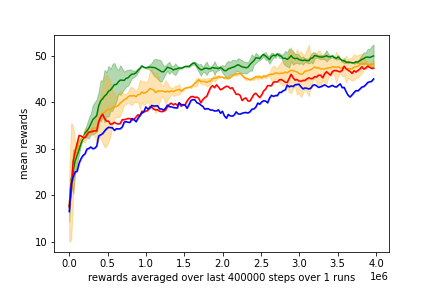
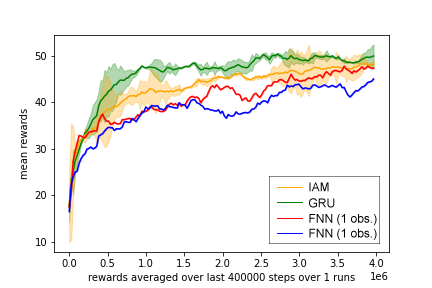
update blog and images

Changed region(s): [[0.6319, 0.5938, 0.8727, 0.875]]

diff --git a/index.md b/index.md
@@ -84,11 +84,16 @@ Two small adjustments have been made to get the environment working with the PPO
 - The observation space property with the correct output was added
 - Metadata property set to None
 
-
 ## IAM model
 As described in the paper the basic IAM model for the Warehouse environment uses an FNN and GRU in parallel. 
 The paper didn't explain how the IAM model was used in the PPO algorithm. This is an important detail since the algorithm uses an actor and critic model, and these can be used in different combinations. 
 For example parts of the model used in the actor and critic can be shared or completely separate. We decided to use two instances of the IAM model, one as actor and one as critic.  
+
+### D-set
+We looked at how to implement the d-set functionality of the model. 
+We did this by reducing the size of the RNN to one layer of 25 parameters. 
+This increased the training speed. But we saw no real increase in performance. 
+As the d-set mainly impacts dynamic environments we left this out of the model we used in our experiments. 
 
 ### Baselines
 Since we use a different PPO model as the original paper, to compare the results correctly,
@@ -100,21 +105,56 @@ the baselines used in the paper are also implemented, again using two instances 
 <!--Erik-->
 <!--Zou je misschien kunnen kijken hoe we een legenda kunnen toevoegen aan de plots?-->
 
-*Focused on reproducing Figure 5 of the paper
-Minibatch of 8 with four different models
-![image](page/images/minibatch8.png)
+With the experiments, we mainly focused on reproducing Figure [5](#fig5) of the paper  . 
+In this figure, we can see the training graphs of different models. 
+As explained in the design section the paper uses LSTM in the IAM this is also what it is compared against. 
+The other two horizontal lines are the FNN’s with different setting for the observations. 
+We chose this graph because is it gave a clear comparison between the proposed model plus others and because it used the warehouse environment, for which we also had a good working implementation.
 
-
-Notice that FNN 1 obs gives the best results.
-We do see that FNN 8 obs performs worse just as in the paper.
-FNN 1,8 and GRU on average took less than 4 hours. While IAM took 5 hours.
-Minibatch of 32 for just GRU and IAM again showing better results. We ran a minibatch of 32 after we found out we could run it on Linux with 32 processes
-![image](page/images/minibatch32.png)
-
-The paper claimed that GRU or LSTM are less stable but actually our results show that GRU is very stable.*
-
-![image](page/images/paper_figure5.png)
+![image](page/images/paper_figure5.png)<a id="fig5"></a> 
 *Figure 5 of the paper*
+
+Below we have two figures that are the results of the reproduced implementation. 
+The first one is with a minibatch of 8 and the other one with 32. 
+The figure of the paper also uses a minibatch of 32. 
+As explained in the implementation section we used GRU as the RNN implementation, so we also compare this to the IAM. 
+
+The experiments were done on a laptop and google cloud server both using linux. 
+Using among other things the torch threads we could run multiple processes, up to 32. 
+The FNN 1,8 and GRU took on average less or around 4 hours, while the IAM took 5 hours on average. 
+
+In the first figure, we notice that the FNN with one observation gives the best result and the FNN 8 the worse. 
+In the second figure, both FNNs give the lowest returns. 
+More interesting is the GRU IAM comparision. 
+We see in both figures that the GRU is doing an overall better job than the IAM model. 
+This is a different result than the paper presents. 
+The paper claimed that the GRU and LSTM are less stable. 
+But if we look at the variance of the GRU in our figures this is not greater than the IAM model. 
+
+The final returns and runtimes are also summed up in the table. 
+
+![image](page/images/minibatch8.png)
+*Minibatch of 8 with four different models*
+
+[comment]: <> (Notice that FNN 1 obs gives the best results.)
+[comment]: <> (We do see that FNN 8 obs performs worse just as in the paper.)
+[comment]: <> (FNN 1,8 and GRU on average took less than 4 hours. While IAM took 5 hours.)
+[comment]: <> (Minibatch of 32 for just GRU and IAM again showing better results. We ran a minibatch of 32 after we found out we could run it on Linux with 32 processes)
+
+![image](page/images/minibatch32.png)
+*Minibatch of 32 with four different models*
+
+
+| Model         | Minibatch     | Average runtime  | Return |
+| ------------- |:-------------:| -----:           |-----:  |
+| GRU           | 8             | 4 hours           | 33.6  |
+| IAM           | 8             | 5 hours           | 30,7  |
+| FNN 1         | 8             | 2 hours 11 min    | 37    |
+| FNN 8         | 8             | 3 hours 49 min    | 28,9  |
+| GRU           | 32            | 3 hours 49 min    | 49,9  |
+| IAM           | 32            | 4 hours 51 min    | 48,2  |
+| FNN 1         | 32            | 3 hours 30 min    | 47,3  |
+| FNN 8         | 32            | 4 hours 15 min    | 45    |
 
 # Reproducibility
 <!--Gijs-->
